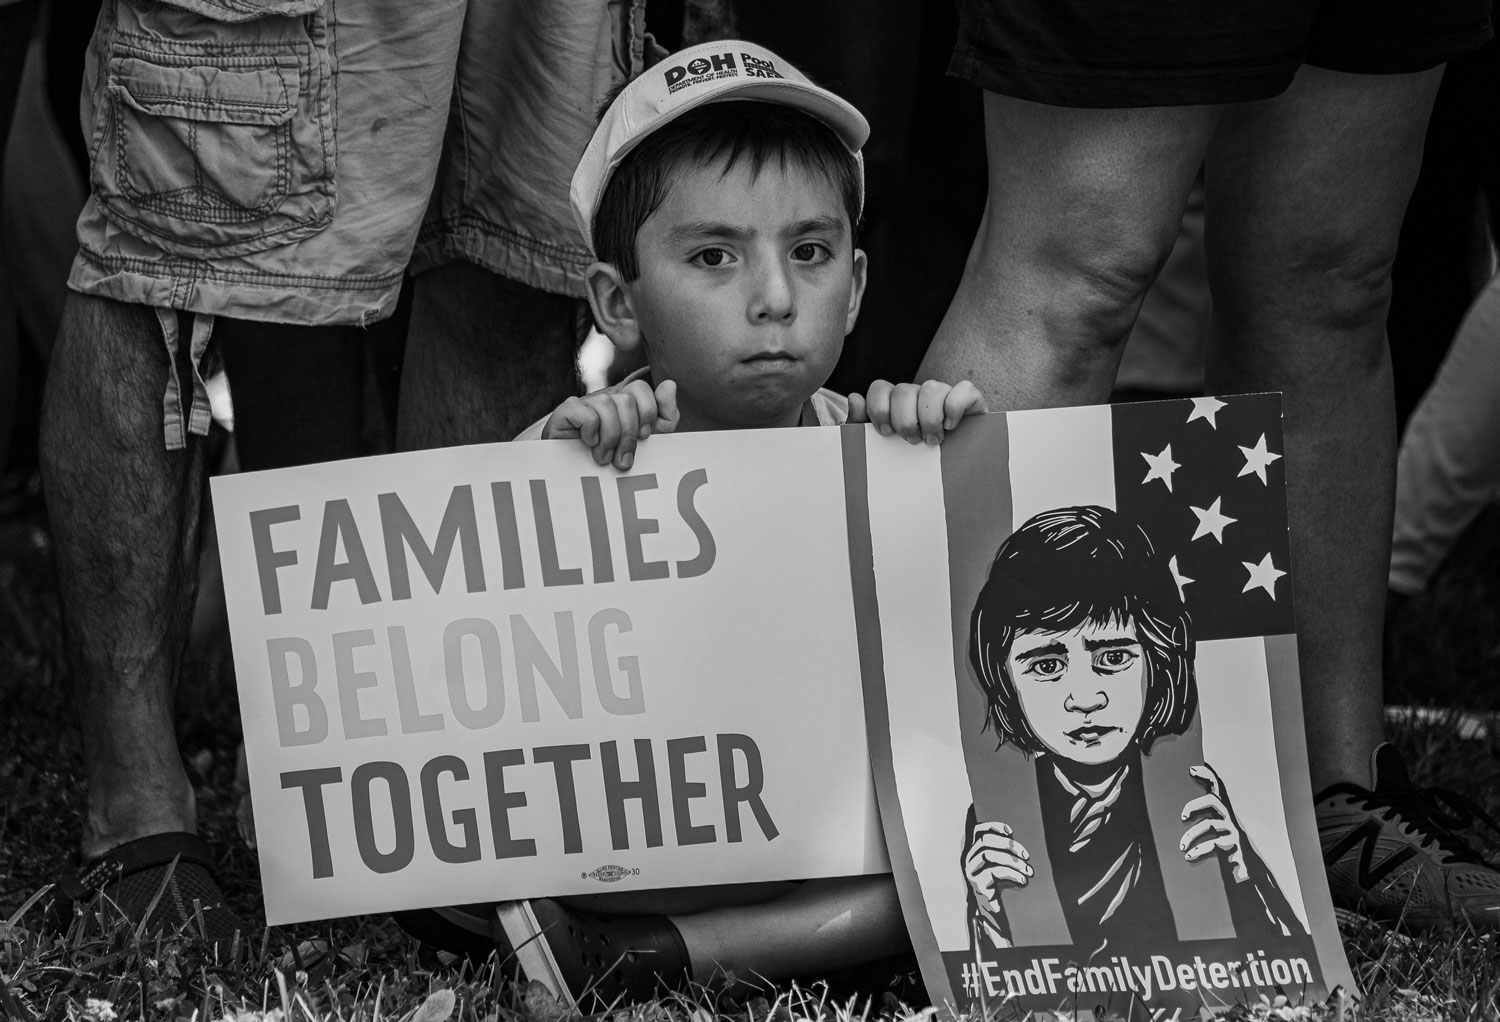
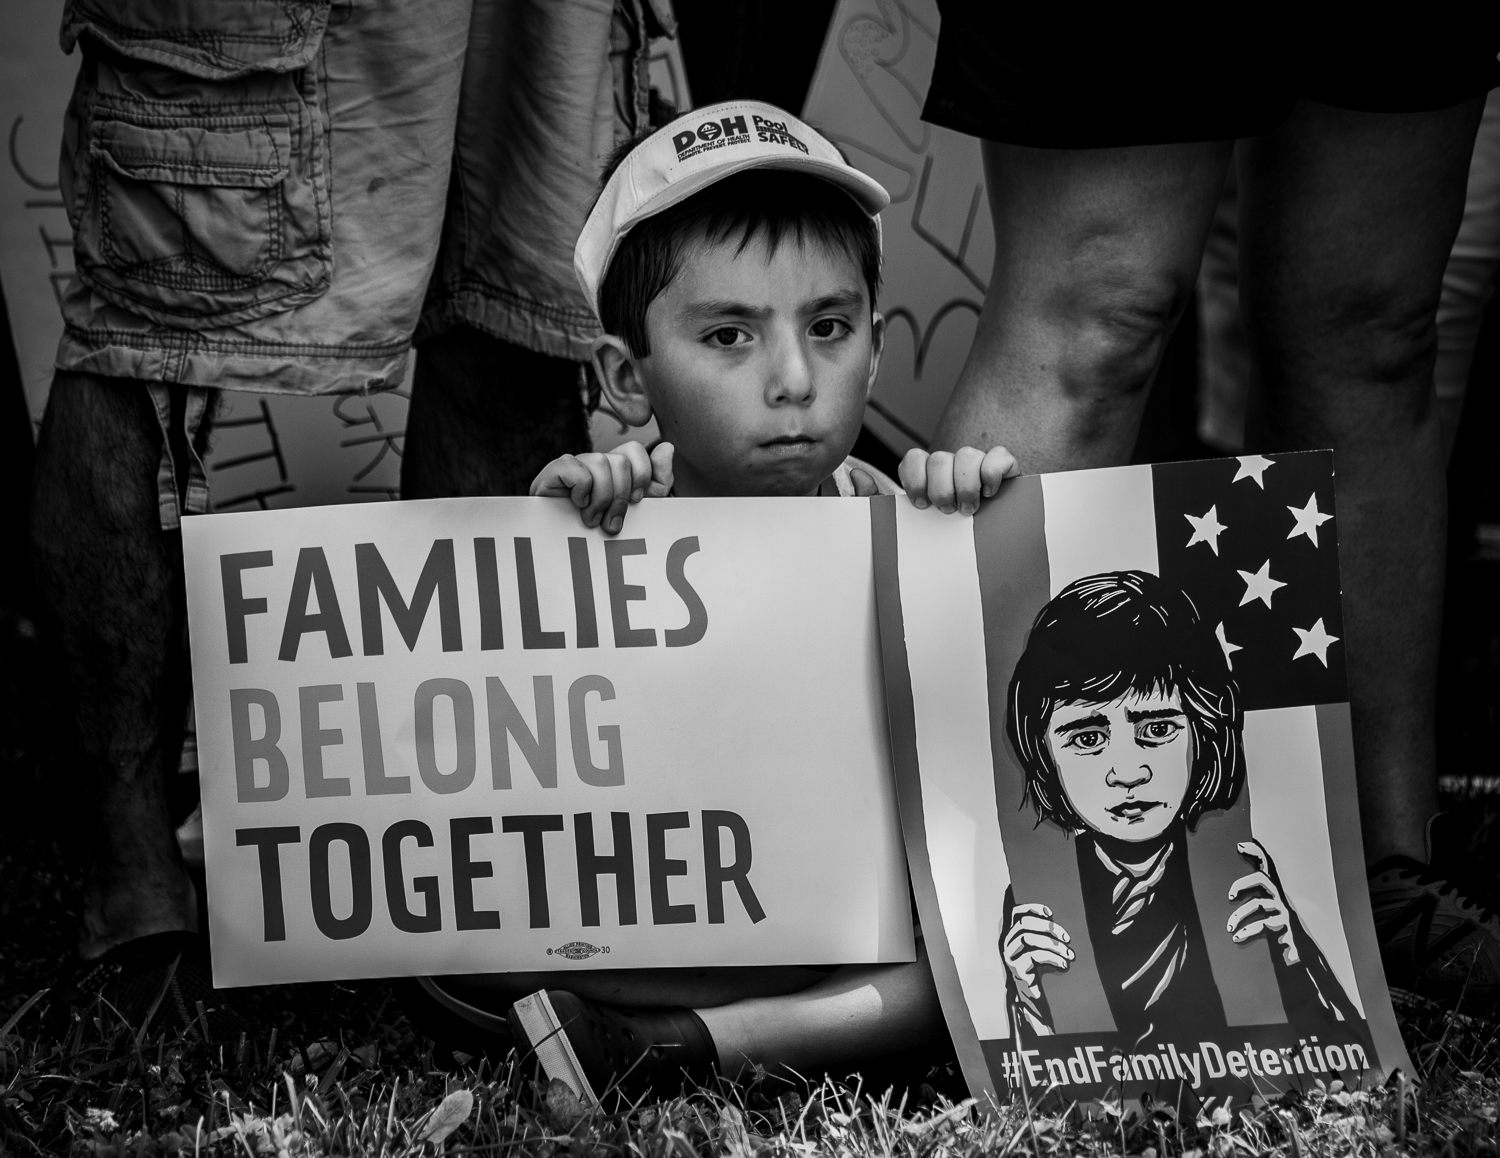
Added specific image background position

diff --git a/components/gallery/GalleryView.tsx b/components/gallery/GalleryView.tsx
@@ -154,7 +154,7 @@ export const GalleryView = ({
                 alt={`Gallery image #${index}`}
                 layout="fill"
                 objectFit="cover"
-                objectPosition="center"
+                objectPosition={image.backgroundPosition ?? 'center center'}
               />
             </GridListTile>
           ))}
